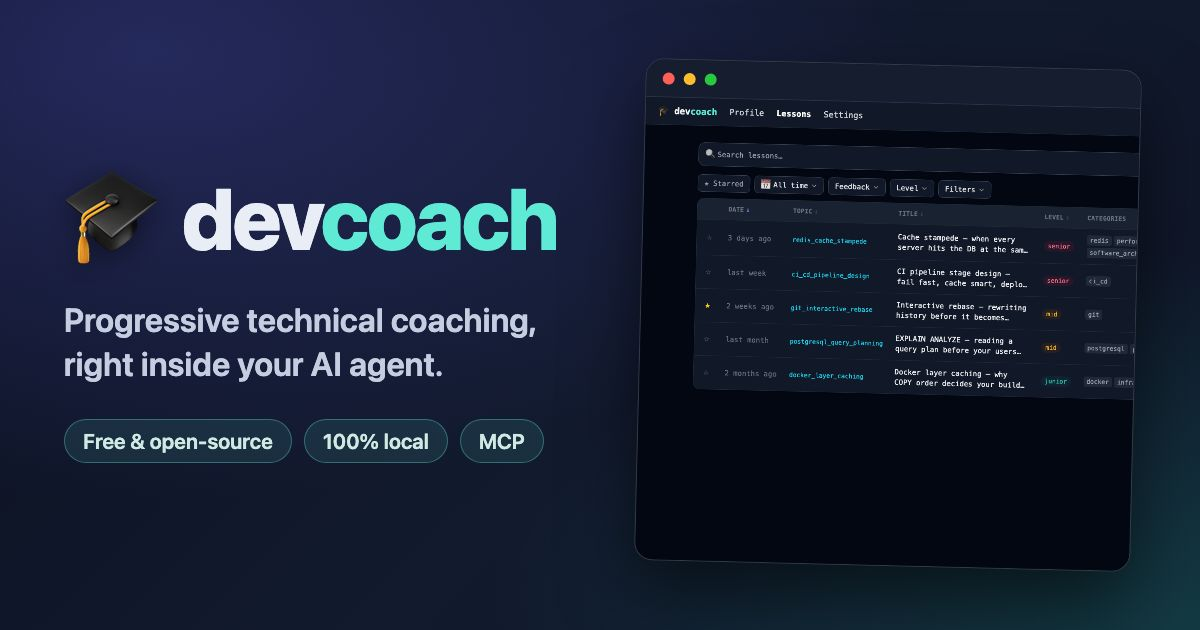
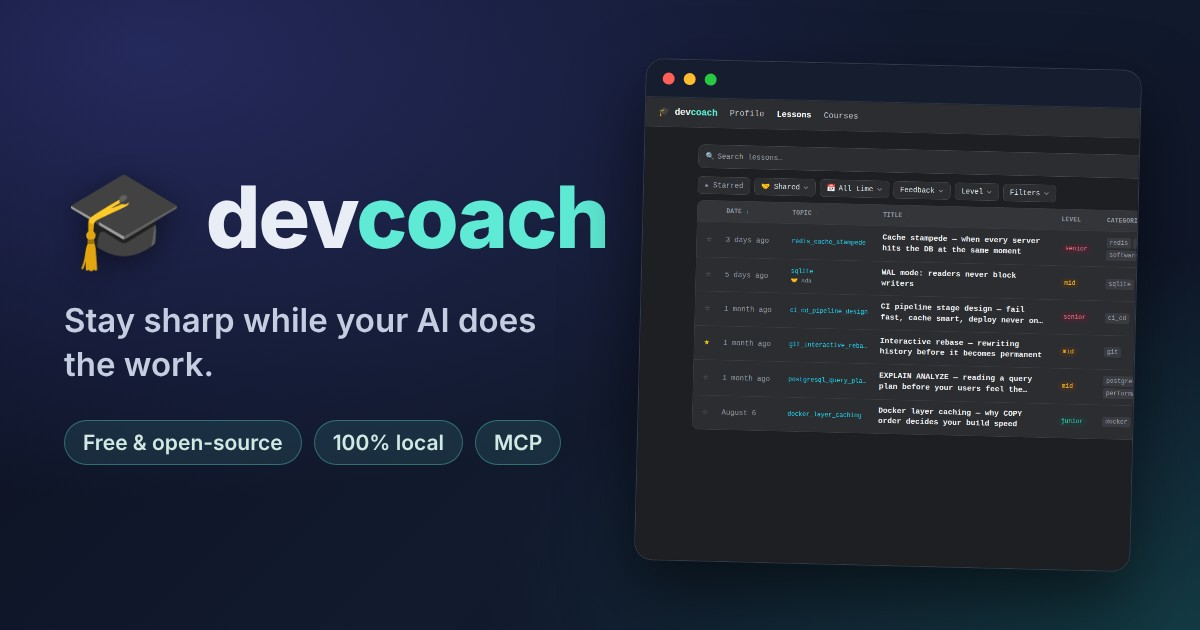
docs: one tagline everywhere
devcoach introduced itself five different ways across npm, the plugin and extension manifests,
the MCP Registry, Homebrew, the docs site and the social card, most of them built on
"progressive technical coaching" (insider language that says how, not what you get). Every
surface now uses the same two lines: the existing headline, "Stay sharp while your AI does the
work", and the explainer from the repo's own GitHub description, "Learn what you don't know yet
from the code your AI agent writes".

- package.json, plugin.json (+ the self-marketplace mirror), gemini-extension.json: headline +
  explainer, keeping each surface's own bundle details
- server.json and the .mcpb manifest: the explainer, 99 chars (the registry caps at 100)
- Homebrew desc (64 chars, under brew's 80), the marketplace scaffold default, `devcoach --help`
- docs site tagline + description, llms.txt, the install index description, the README's
  social-card alt text
- the social card says the headline; regenerated (it also picks up the current dashboard
  screenshot)

The MCP server's model-facing instructions are untouched.

Claude-Session: https://claude.ai/code/session_01NrnCoNszDPBcY6KggBT5JE

diff --git a/website/docusaurus.config.ts b/website/docusaurus.config.ts
@@ -12,7 +12,7 @@ const SITE_URL = "https://ultimaphoenix.github.io/dev-coach/";
 const NEXT = process.env.DOCS_NEXT === "1";
 const NEXT_URL = `${SITE_URL}next/`;
 const DESCRIPTION =
-  "devcoach is a free, local, open-source MCP server that turns the tasks your AI agent finishes into short, in-context lessons on what you don't know yet — progressive technical coaching for Claude Code, Claude Desktop, Gemini CLI, Codex CLI, Cursor, and other MCP tools.";
+  "devcoach is a free, local, open-source MCP server that teaches you what you don't know yet from the code your AI agent writes — one short, in-context lesson at a time, for Claude Code, Claude Desktop, Gemini CLI, Codex CLI, Cursor, and other MCP tools.";
 
 // Inline plugin (zero-dep): emit /llms-full.txt — the entire docs corpus concatenated into one
 // file for LLM / answer-engine retrieval. It is the companion to the curated static /llms.txt.
@@ -76,7 +76,7 @@ function llmsFullTxtPlugin() {
 
 const config: Config = {
   title: "devcoach",
-  tagline: "Progressive technical coaching, right inside your AI agent",
+  tagline: "Learn what you don't know yet from the code your AI agent writes",
   favicon: "img/favicon.svg",
 
   future: { v4: true },

diff --git a/src/cli/commands.ts b/src/cli/commands.ts
@@ -889,7 +889,7 @@ function buildProgram(): Command {
   program.exitOverride();
   program
     .name("devcoach")
-    .description("devcoach — progressive technical coaching")
+    .description("devcoach — learn what you don't know yet from the code your AI agent writes")
     .version(`devcoach ${VERSION}`, "-v, --version", "output the version number")
     .allowExcessArguments(false)
     .showHelpAfterError("(add --help for usage)")

diff --git a/website/scripts/og-card.html b/website/scripts/og-card.html
@@ -84,7 +84,7 @@
         <span class="cap">🎓</span>
         <span class="word">dev<span>coach</span></span>
       </div>
-      <div class="tagline">Progressive technical coaching, right inside your AI agent.</div>
+      <div class="tagline">Stay sharp while your AI does the work.</div>
       <div class="pills">
         <span class="pill">Free &amp; open-source</span>
         <span class="pill">100% local</span>

diff --git a/CHANGELOG.md b/CHANGELOG.md
@@ -11,6 +11,13 @@ Notable changes to devcoach. Versions follow [Semantic Versioning](https://semve
   indigo, and in dark mode the dashboard's grey canvas and panels (`#1e1f22` / `#2b2d30`) instead
   of Docusaurus' defaults. The footer and the share page's TL;DR box follow. Both themes keep WCAG
   AA contrast for links and button text.
+- **One tagline everywhere.** devcoach introduced itself five different ways ("Progressive
+  technical coaching, right inside your AI agent", "Progressive in-context technical
+  coaching…", "Progressive technical coach for Claude Code…", …). Every surface now uses the same
+  two lines: *Stay sharp while your AI does the work* and *Learn what you don't know yet from the
+  code your AI agent writes*. This covers the npm, Claude Code plugin (+ self-marketplace), Gemini
+  extension, `.mcpb`, MCP Registry and Homebrew descriptions, `devcoach --help`, the docs site
+  tagline and description, `llms.txt`, and the social card.
 
 ## [2.7.1] — 2026-10-08
 

diff --git a/docs/install/index.md b/docs/install/index.md
@@ -1,7 +1,7 @@
 ---
 title: Installation
 sidebar_label: Choose your setup
-description: Install devcoach in about 30 seconds — Homebrew, the Claude Code plugin, npx, or Claude Desktop. A local MCP server for progressive technical coaching in your AI agent.
+description: Install devcoach in about 30 seconds — Homebrew, the Claude Code plugin, npx, or Claude Desktop. A local MCP server that teaches you what you don't know yet from the code your AI agent writes.
 keywords: [install devcoach, devcoach npx, devcoach homebrew, Claude Code plugin, Claude Desktop MCP, MCP server install]
 ---
 

diff --git a/README.md b/README.md
@@ -2,7 +2,7 @@
 
 <p align="center">
   <a href="https://ultimaphoenix.github.io/dev-coach/">
-    <img src="https://ultimaphoenix.github.io/dev-coach/img/og-card.jpg" alt="devcoach — progressive technical coaching, right inside your AI agent" width="760">
+    <img src="https://ultimaphoenix.github.io/dev-coach/img/og-card.jpg" alt="devcoach — stay sharp while your AI does the work" width="760">
   </a>
 </p>
 
